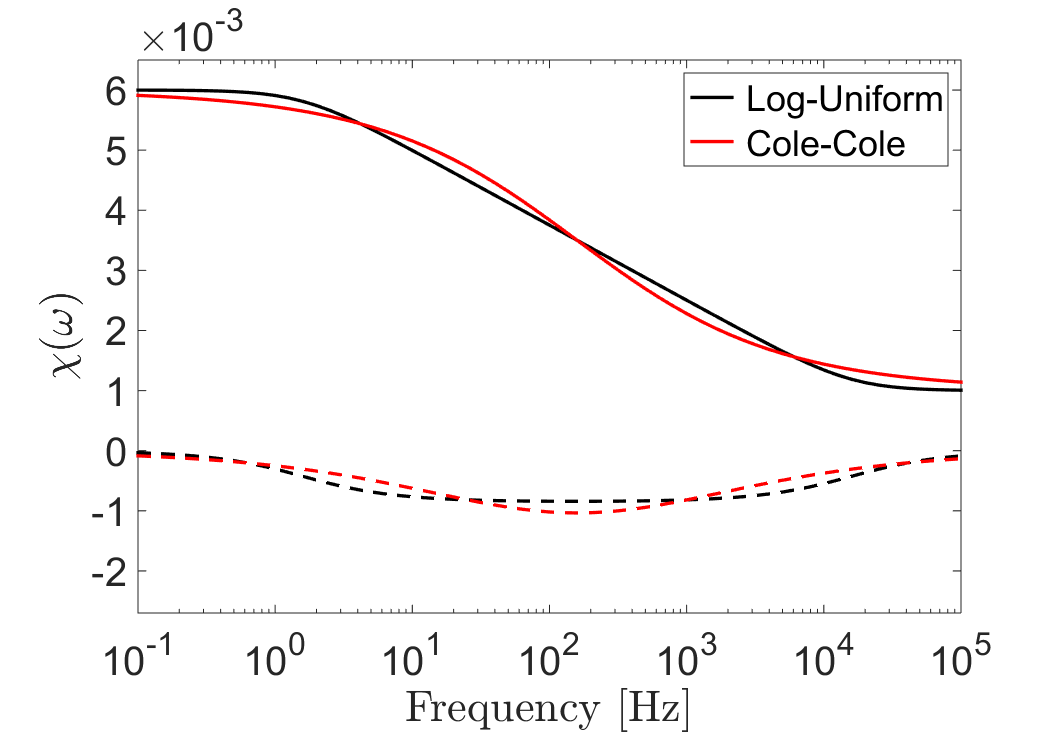
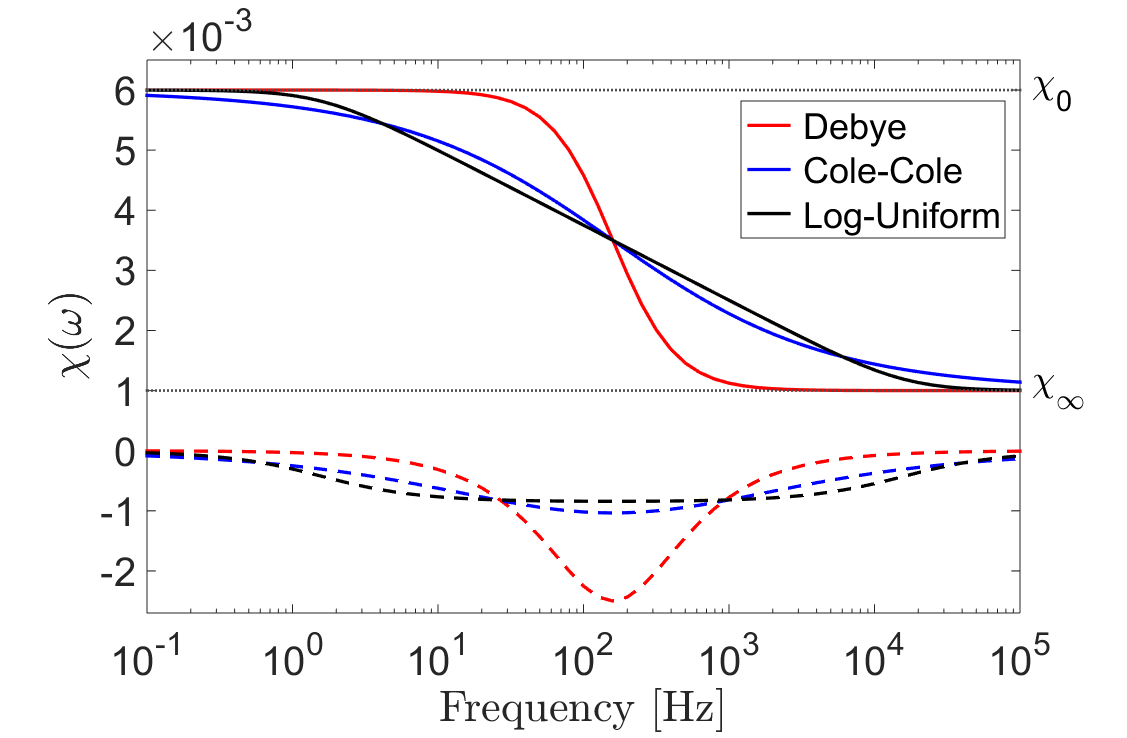
Edit of magnetic permeability for review

diff --git a/content/physical_properties/magnetic_permeability/magnetic_permeability_frequency_dependent.rst b/content/physical_properties/magnetic_permeability/magnetic_permeability_frequency_dependent.rst
@@ -4,34 +4,58 @@ Frequency-Dependent Magnetic Permeability
 =========================================
 
 In response to changes in an applied magnetic field, the induced magnetization within most rocks may be considered an instantaneous process.
-For some lateritic soils and rapidly cooled basalts however, a portion of the induced magnetization will instead undergo a relaxation process.
-This relaxation process has been attributed to the presence of superparamagnetic iron-oxide nanoparticles, and is commonly refered to as: viscous remanent magnetization, magnetic viscosity, or magnetic after-effect.
+For some lateritic soils and rapidly cooled basalts however, a portion of the induced magnetization undergoes a relaxation process.
+This relaxation process is commonly refered to as: viscous remanent magnetization, magnetic viscosity, or magnetic after-effect.
+As a result of their magnetic viscosity, lateritic soils and rapidly cooled basalts are characterized by frequency-dependent magnetic permeabilities.
 
-Mathematical Relationships
---------------------------
+Here, our description of the magnetic viscosity is limited to providing useful expressions for implementation in applied problems.
+Comprehensive studies of magnetic viscosity, and its relevance to geophysical surveying, may be found in (Neel, 1949; Buselli, 1982; Lee, 1984; Dabas, 1992; Dunlop and Ozdemir, 1997; Das, 2006; Pasion, 2007)
 
-As a result of their magnetic viscosity, lateritic soils and rapidly cooled basalts are characterized by frequency-dependent magnetic permeabilities, where:
+Mathematical Description
+------------------------
+
+For rocks which are characterized by frequency-dependent magnetic permeabilities, the magnetic constitutive relationship becomes:
 
 .. math::
 	{\bf B}(\omega) = \mu (\omega) \, {\bf H}(\omega)
 	:label: FreqConstRel
 
-The magnetic viscosity can also be represented using a frequency-dependent magnetic susceptibility :math:`\chi (\omega)`, where:
+where :math:`\mu (\omega)` may also be characterized a frequency-dependent magnetic susceptibility :math:`\chi (\omega)`:
 
 .. math::
 	\mu (\omega) = \mu_0 \big [ 1 + \chi (\omega) \, \big ]
 
+As presented earlier, magnetic susceptibility represents the proportional degree of induced magnetization, in response to an applied magnetic field.
+For rocks exhibiting magnetic viscosity, the relaxation process may be understood by considering a Debye model:
 
+.. math::
+	\chi(\omega) = \chi_\infty + \frac{\chi_0 - \chi_\infty}{1 + i \omega \tau}
+	
+
+where :math:`\chi_0` defines the zero-frequency limit, :math:`\chi_\infty` defines the infinite frequency limit, and :math:`\tau` defines the rate of magnetic relaxation.
+The instantaneous portion of induced magnetization is represented by :math:`\chi_\infty`, whereas :math:`\chi_0-\chi_\infty` represents the viscous contribution.
+In rocks, the magnetic viscosity is characterized by a distribution of time-relaxation constants.
+This can be represented by introducing a weighting function :math:`f(\tau)`, and integrating over all Debye models:
+
+.. math::
+	\chi (\omega) = \chi_\infty + \big ( \chi_0 - \chi_\infty \big ) \int_0^\infty \frac{f(\tau)}{1 + i\omega\tau} d\tau
+
+
+The magnetic viscosity of a rock ultimately depends on the distribution of time relaxation constants.
+From expression (), a multitude of models have been proposed.
+One of the simplest and most popular models is obtained by assuming a log-uniform distribution of time relaxation constants:
 
 .. math::
 	\chi(\omega) = \chi_0 - \frac{\chi_0 - \chi_\infty}{ln (\tau_2/\tau_1)} ln \Bigg ( \frac{1 + i\omega\tau_2}{1 + i\omega\tau_1} \Bigg )
 	
-
+where :math:`\tau_1` and :math:`\tau_2` represent lower and upper bounds for distribution.
+A specific weighting function may also be used to obtain the Cole-Cole model:
 
 .. math::
-	\chi(\omega) = \chi_\infty + \frac{\chi_0 - \chi_\infty}{1 + (i \omega \tau)^C}
+	\chi(\omega) = \chi_\infty + \frac{\chi_0 - \chi_\infty}{1 + (i \omega \tau_c)^\alpha}
 
-
+where :math:`\tau_c` represents the center of a distribution of time-relaxation constants, and :math:`\alpha` represents the broadness of the distribution.
+The frequency-dependent magnetic susceptibilities for a Debye model, log-uniform distribution, and Cole-Cole model are compared in Figure ().
 
 
 .. figure:: ./figures/figChiOmegaDistr.png

diff --git a/content/physical_properties/magnetic_permeability/magnetic_permeability_lab_measurements.rst b/content/physical_properties/magnetic_permeability/magnetic_permeability_lab_measurements.rst
@@ -3,8 +3,8 @@
 Laboratory Measurements
 =======================
 
-Magnetic permeability measurements represent an integral part of classifying physical rock properties.
-Here, we present the general approach for measuring the magnetic permeabilities of rock samples.
+Magnetic permeability measurements are an integral part of classifying physical rock properties.
+Here, we present the general approach for measuring a rock's magnetic permeability.
 Background theory is then provided for a simplified instrument configuration.
 
 General Approach
@@ -16,22 +16,27 @@ General Approach
         :scale: 50%
 
 Magnetic permeability measurements can be understood by considering the forced, in-series LC circuit diagram in Figure (needs reference).
-A driving voltage :math:`V(t)` generates a current :math:`I(t)` within the wire; which is defined by the following ordinary differential equation:
+The current :math:`I(t)` within the wire is generated by a driving voltage :math:`V(t)`.
+This current is defined by the following ordinary differential equation:
 
 .. math::
 	\frac{d^2 I (t)}{d t} + \frac{1}{LC} I(t) = F(t)
 	:label: Forced_Oscillator
 	
-For this circuit, the inductive element :math:`L` depends on the magnetic permeability :math:`\mu_s` of the rock sample, :math:`C` is a known capacitive element, and :math:`F(t)` is used to represent the driving voltage.
+For our circuit, the inductive element :math:`L` depends on the magnetic permeability :math:`\mu_s` of the rock sample.
+This relationship is discussed more in the following section.
+:math:`C` represents a known capacitive element, and :math:`F(t)` is used to represent the driving voltage.
 From Eq. :eq:`Forced_Oscillator`, the circuit has a natural resonance frequency :math:`\omega_r` at:
 
 .. math::
 	\omega_r = \frac{1}{\sqrt{LC}}
 	:label: Omega_Resonance
-
-A relationship between the permeability of the sample and the resonance frequency of the circuit may not be straightforward.
-In most cases, an experimentally derived curve is used to characterize an empirical relationship between these two quantities.
+	
+Since :math:`C` is known, Eq. :eq:`Omega_Resonance` implies there exists an explicit relationship between :math:`\omega_r` and :math:`\mu_s`.
+Unfortunately, this relationship is not particularly straightforward, and depends on the configuration of the instrument.
+In most cases, an experimentally derived curve is used to characterize an empirical relationship between :math:`\omega_r` and :math:`\mu_s`.
 Once established, the magnetic permeability of a sample may be obtained by 1) determining the resonance frequency of the circuit, then 2) finding the corresponding magnetic permeability value on the curve. 
+This is illustrated in Figure ().
 
 .. figure:: ./figures/figPermeabilityVsRes.png
 	:align: center
@@ -41,7 +46,7 @@ Once established, the magnetic permeability of a sample may be obtained by 1) de
 Background Theory: A Simplified Experiment
 ------------------------------------------
 
-Once again, let us considering the circuit diagram in Figure (needs reference).
+Once again, let us consider the circuit diagram in Figure (needs reference).
 For sensitive permeability measurements, a portion of the wire is frequently wound around a ferrite.
 Ferrites are non-conductive and extremely permeable (:math:`\mu_{f} \sim 1000\mu_0`).
 As a result, they become extremely magnetized when exposed to a magnetic field, but experience negligible EM induction under 5 kHz (reference?).
@@ -72,7 +77,7 @@ This can be described using Hopkinson's law, which is analogous to Ohm's law:
 
 where :math:`\Phi` is the magnetic flux along the path of the ferrite, and :math:`\Re` is defined as the magnetic reluctance.
 Magnetic reluctance represents the ratio of magnetomotive force to induced magnetic flux. 
-If our ferrite formed a closed path, had uniform cross-sectional area :math:`A`, and total length :math:`\ell`, its magnetic reluctance would be given by:
+If our ferrite formes a closed path, has uniform cross-sectional area :math:`A`, and total length :math:`\ell`, its magnetic reluctance is given by:
 
 .. math::
 	\Re = \frac{\ell}{\mu_f A}

diff --git a/content/physical_properties/magnetic_permeability/index.rst b/content/physical_properties/magnetic_permeability/index.rst
@@ -15,10 +15,6 @@ When exposed to an applied magnetic field, the collection of individual magnetic
 This generates an induced magnetization, which contributes towards the net magnetic flux density inside the material.
 The degree in which the induced magnetization impacts the magnetic flux density depends on the material's magnetic permeability.
 
-.. figure:: ./figures/figBvsHillustr.png
-	:align: right
-        :scale: 40%	
-
 Magnetic permeability :math:`\mu` defines the ratio between the magnetic flux density :math:`{\bf B}` within a material, and the intensity of an applied magnetic field :math:`{\bf H}`; provided the fields are sufficiently weak:
 
 .. math::
@@ -27,6 +23,12 @@ Magnetic permeability :math:`\mu` defines the ratio between the magnetic flux de
 	
 In a vacuum, the relationship between :math:`{\bf B}` and :math:`{\bf H}` is given by the permeability of free-space :math:`\mu_0 = 4\pi \times 10^{-7}` T :math:`\!\cdot\!` m/A.
 An illustration representing the magnetic flux density as a function of the applied field strength for various rock classifications are shown in Figure ().
+
+.. figure:: ./figures/figBvsHillustr.png
+	:align: center
+        :scale: 40%
+        
+        Magnetic flux density as a function of magnetic field intensity for various classifications of permeable rock types: diamagnetic, non-permeable, paramagnetic, and ferromagnetic.
 
 
 
@@ -44,14 +46,17 @@ The relative premeability :math:`\mu_r` is the ratio between the magnetic permea
 For the majority of rocks, induced magnetization is parallel to the applied field, thus adding to the density of magnetic flux.
 These rocks are characterized by relative permeabilities :math:`\mu_r > 1`.
 A relative permeability of :math:`\mu_r = 1` is used to characterize materials which are incapable of supporting induced magnetization.
-In rare cases, a very small magnetization can be induced in rocks, which opposes the applied field and reduces the density of magnetic flux.
-These rocks are characterized by magnetic permeabilities :math:`\mu_r < 1`.
-The partial alignment of magnetic dipole moments under an applied field, and the resulting magnetic flux density in all three cases, are represented in Figure.
+In rare cases, a very small magnetization can be induced in rocks, which opposes the applied field, and reduces the density of magnetic flux.
+These rocks are characterized by magnetic permeabili3810 characters, 495 words, 78 linesties :math:`\mu_r < 1`.
+The partial alignment of magnetic dipole moments under an applied field, and the resulting magnetic flux densities in all three cases, are represented in Figure.
 
 .. figure:: ./figures/figMagFluxDensity.png
 	:align: center
         :scale: 60%
-
+	
+	Partial alignment of magnetic dipole moments under the influence of an applied magnetic field for various cases. (a) Paramagnetic (:math:`\mu_r > 1`).
+	Magnetization is parallel to the applied field and increases the density of magnetic flux. (b) Non-permeable (:math:`\mu_r = 1`).
+	Does not support induced magnetization. (c) Diamagnetic (:math:`\mu_r < 1`). Magnetization is weak and opposes the applied magnetic field, thus reducing the density of magnetic flux.
 
 
 

diff --git a/content/physical_properties/magnetic_permeability/magnetic_permeability_values.rst b/content/physical_properties/magnetic_permeability/magnetic_permeability_values.rst
@@ -3,10 +3,10 @@
 Typical Values for Rocks
 ========================
 	
-The range of magnetic susceptibilities (in SI) for rocks is illustrated is Figure (needs reference).
+The range of magnetic susceptibilities (in SI) for rocks is illustrated in Figure (needs reference).
 Recall that magnetic permeabilities for these rocks may be obtained using the appropriate expression from the units section (link).
 Black and white bars are used to provide the range of magnetic susceptibility values for more distinct rock types.
-
+Vertical dashed red lines are used to represent the approximate magnetic susceptibility of rocks, based on \% volume magnetite.
 
 .. figure:: ./figures/figMagSuscTable.png
 	:align: center

diff --git a/content/physical_properties/magnetic_permeability/magnetic_permeability_factors.rst b/content/physical_properties/magnetic_permeability/magnetic_permeability_factors.rst
@@ -4,7 +4,7 @@ Impact of Mineralogy on Magnetic Properties
 ===========================================
 
 Magnetism in rocks is primarily attributed to the presence of iron-bearing minerals.
-A collection of relevant iron-bearing minerals are listed here.
+These minerals, and their relative importance in rock magnetism, are listed here.
 The magnetic susceptibilities of common rock types are discussed qualitatively.
 
 Important Iron-Bearing Minerals
